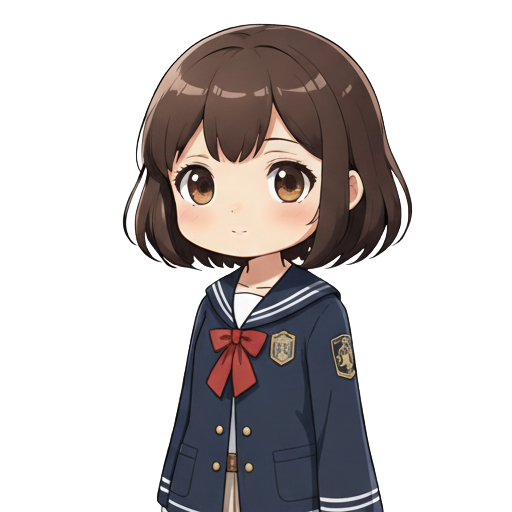
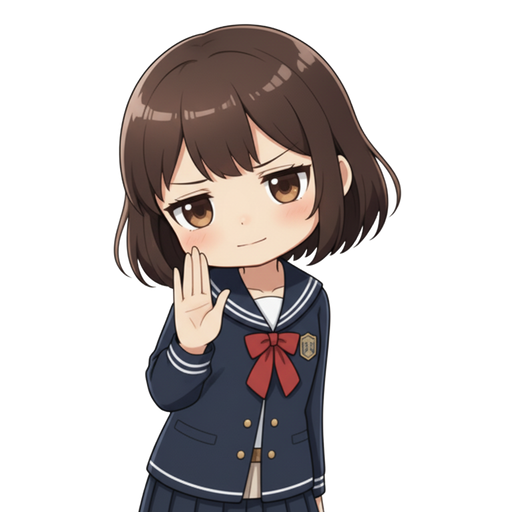
assets: なの表情バリアント3種をGemini+Stability AIで作成、fantasy_bg圧縮
- event_surprise/tsukkomi/determined をbase.pngからGemini edit_imageで生成
- Stability AI remove_backgroundで背景除去（全3枚）
- 512px PNG圧縮（各~220KB）
- fantasy_bg.png(3.8MB) → fantasy_bg.jpg(96KB)に圧縮、参照を更新

Changed region(s): [[0.2188, 0.0312, 0.8125, 1.0], [0.4688, 0.0938, 0.5, 0.125]]

diff --git a/src/app/(game)/play/[caseId]/interrogation/page.tsx b/src/app/(game)/play/[caseId]/interrogation/page.tsx
@@ -52,7 +52,7 @@ function getInterrogationBg(caseId: string): string | null {
     case_sample_001: '/images/backgrounds/case_sample_001_interrogation.jpg',
     case_sample_002: '/images/backgrounds/case_sample_002_interrogation.jpg',
     case_sample_003: '/images/backgrounds/case_sample_003_interrogation.jpg',
-    mini_prologue: '/images/backgrounds/fantasy_bg.png',
+    mini_prologue: '/images/backgrounds/fantasy_bg.jpg',
   };
   return bgs[caseId] ?? null;
 }
